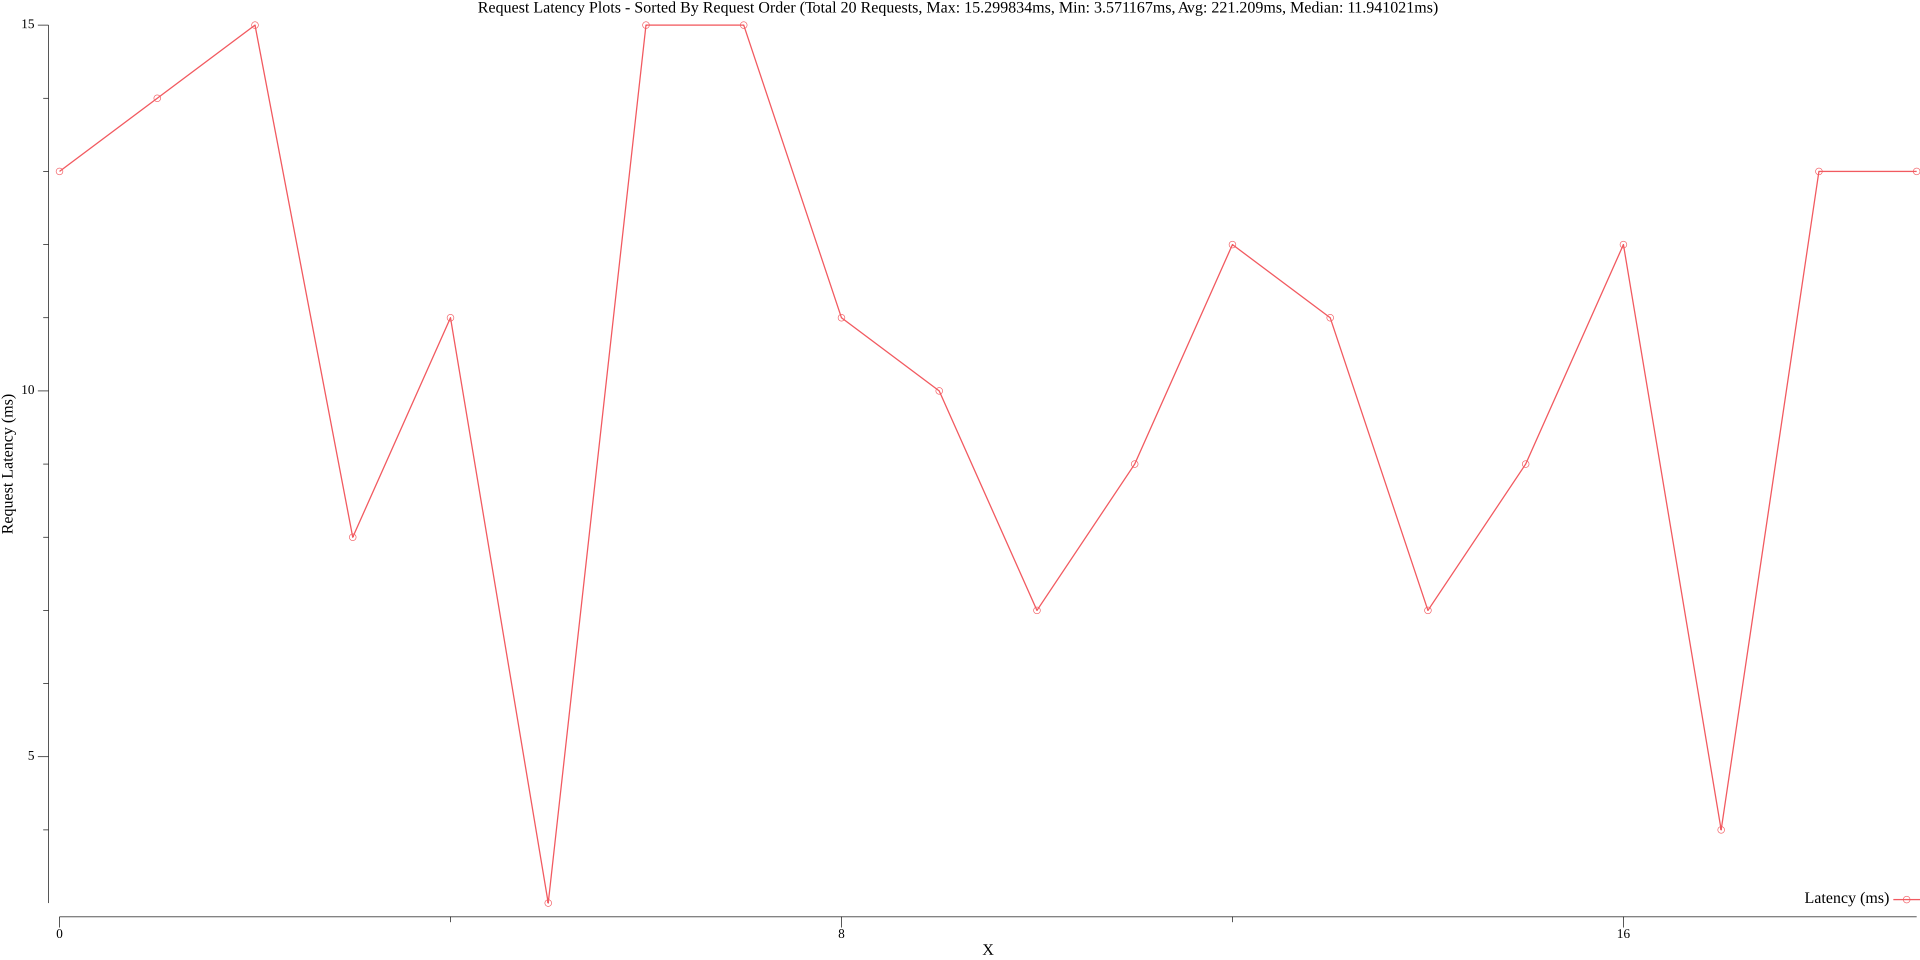
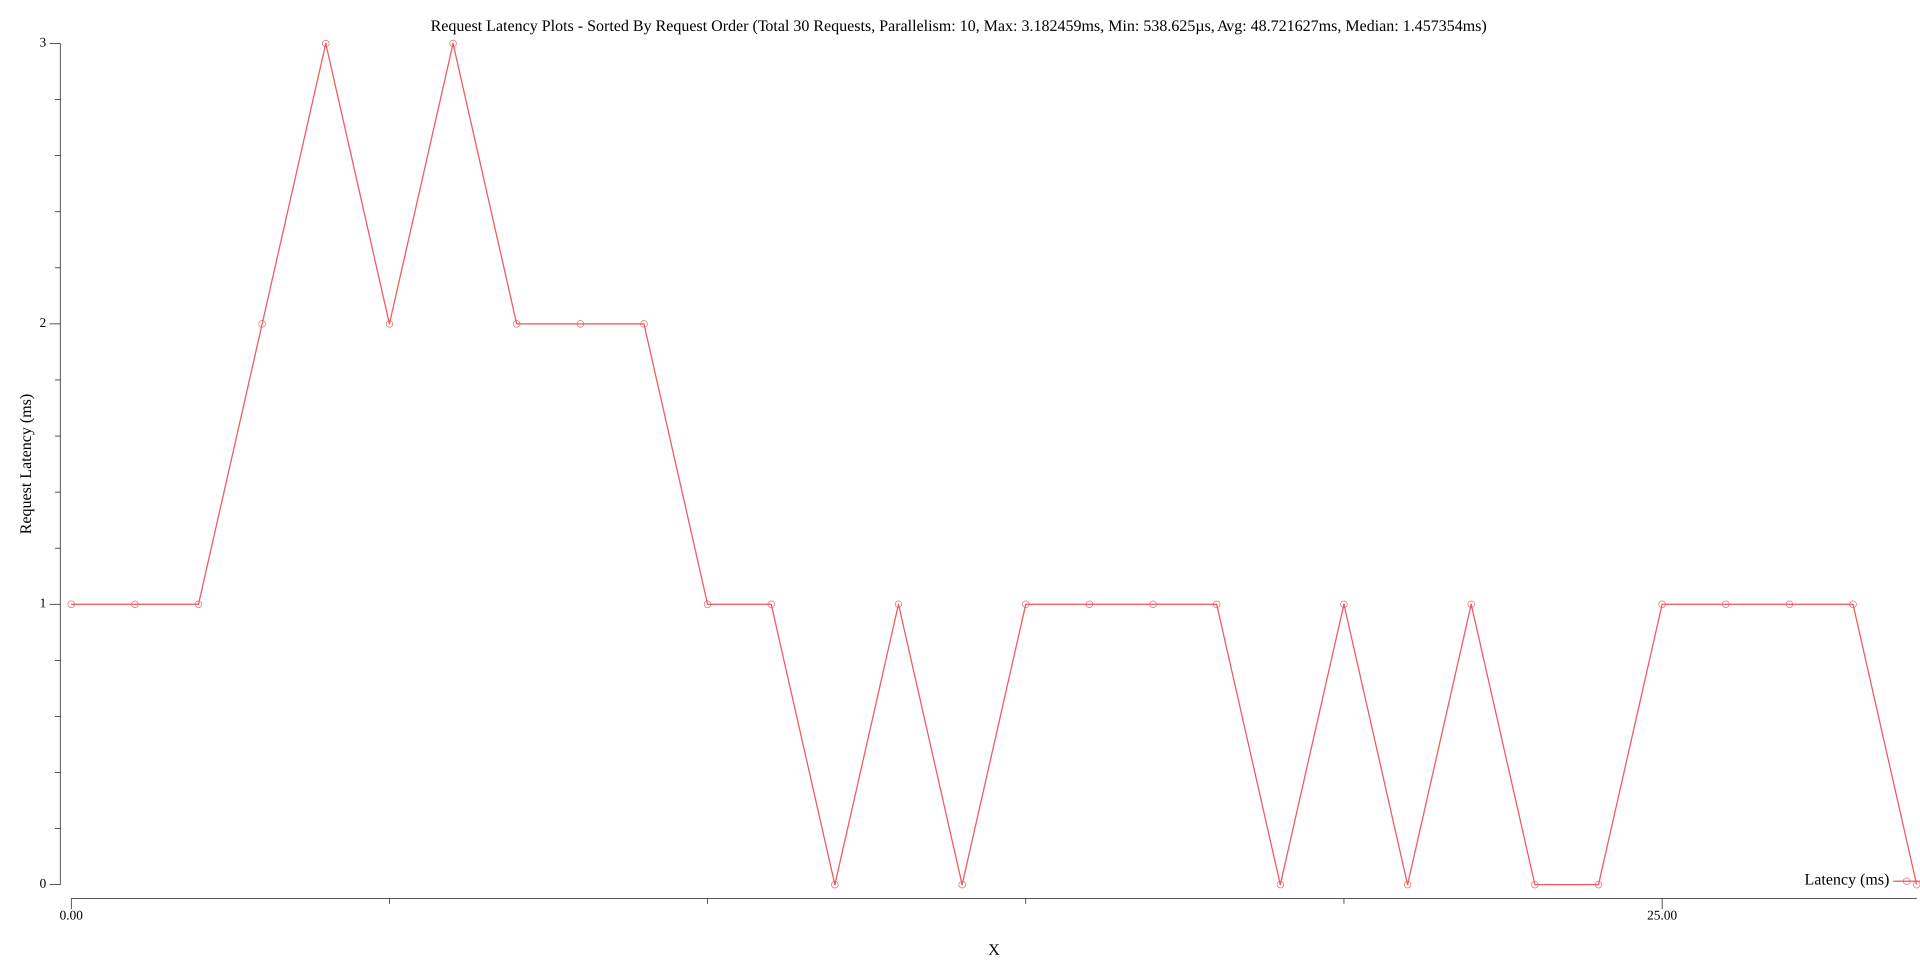
Update demo

diff --git a/README.md b/README.md
@@ -33,43 +33,53 @@ benchmarker.StartBenchmark(parallel, round, sendRequest)
 ## Output
 
 ```
-Order: 1, Took: 13.032791ms, Success: true, HttpStatus: 200, Extra: map[]
-Order: 2, Took: 14.089ms, Success: true, HttpStatus: 200, Extra: map[]
-Order: 3, Took: 15.168084ms, Success: true, HttpStatus: 200, Extra: map[]
-Order: 4, Took: 8.655709ms, Success: true, HttpStatus: 200, Extra: map[]
-Order: 5, Took: 11.956125ms, Success: true, HttpStatus: 200, Extra: map[]
-Order: 6, Took: 3.571167ms, Success: true, HttpStatus: 200, Extra: map[]
-Order: 7, Took: 15.091167ms, Success: true, HttpStatus: 200, Extra: map[]
-Order: 8, Took: 15.299834ms, Success: true, HttpStatus: 200, Extra: map[]
-Order: 9, Took: 11.925917ms, Success: true, HttpStatus: 200, Extra: map[]
-Order: 10, Took: 10.944333ms, Success: true, HttpStatus: 200, Extra: map[]
-Order: 11, Took: 7.628208ms, Success: true, HttpStatus: 200, Extra: map[]
-Order: 12, Took: 9.466166ms, Success: true, HttpStatus: 200, Extra: map[]
-Order: 13, Took: 12.553333ms, Success: true, HttpStatus: 200, Extra: map[]
-Order: 14, Took: 11.110625ms, Success: true, HttpStatus: 200, Extra: map[]
-Order: 15, Took: 7.528167ms, Success: true, HttpStatus: 200, Extra: map[]
-Order: 16, Took: 9.468917ms, Success: true, HttpStatus: 200, Extra: map[]
-Order: 17, Took: 12.566166ms, Success: true, HttpStatus: 200, Extra: map[]
-Order: 18, Took: 4.235625ms, Success: true, HttpStatus: 200, Extra: map[]
-Order: 19, Took: 13.418625ms, Success: true, HttpStatus: 200, Extra: map[]
-Order: 20, Took: 13.499041ms, Success: true, HttpStatus: 200, Extra: map[]
+Order: 1, Took: 1.159167ms, Success: true, HttpStatus: 200, Extra: map[]
+Order: 2, Took: 1.759167ms, Success: true, HttpStatus: 200, Extra: map[]
+Order: 3, Took: 1.787917ms, Success: true, HttpStatus: 200, Extra: map[]
+Order: 4, Took: 2.687959ms, Success: true, HttpStatus: 200, Extra: map[]
+Order: 5, Took: 3.182459ms, Success: true, HttpStatus: 200, Extra: map[]
+Order: 6, Took: 2.618958ms, Success: true, HttpStatus: 200, Extra: map[]
+Order: 7, Took: 3.118584ms, Success: true, HttpStatus: 200, Extra: map[]
+Order: 8, Took: 2.754875ms, Success: true, HttpStatus: 200, Extra: map[]
+Order: 9, Took: 2.756875ms, Success: true, HttpStatus: 200, Extra: map[]
+Order: 10, Took: 2.492708ms, Success: true, HttpStatus: 200, Extra: map[]
+Order: 11, Took: 1.154667ms, Success: true, HttpStatus: 200, Extra: map[]
+Order: 12, Took: 1.9035ms, Success: true, HttpStatus: 200, Extra: map[]
+Order: 13, Took: 867µs, Success: true, HttpStatus: 200, Extra: map[]
+Order: 14, Took: 1.8965ms, Success: true, HttpStatus: 200, Extra: map[]
+Order: 15, Took: 679.583µs, Success: true, HttpStatus: 200, Extra: map[]
+Order: 16, Took: 1.320791ms, Success: true, HttpStatus: 200, Extra: map[]
+Order: 17, Took: 1.445917ms, Success: true, HttpStatus: 200, Extra: map[]
+Order: 18, Took: 1.75275ms, Success: true, HttpStatus: 200, Extra: map[]
+Order: 19, Took: 1.003042ms, Success: true, HttpStatus: 200, Extra: map[]
+Order: 20, Took: 588.875µs, Success: true, HttpStatus: 200, Extra: map[]
+Order: 21, Took: 1.369375ms, Success: true, HttpStatus: 200, Extra: map[]
+Order: 22, Took: 810.708µs, Success: true, HttpStatus: 200, Extra: map[]
+Order: 23, Took: 1.468792ms, Success: true, HttpStatus: 200, Extra: map[]
+Order: 24, Took: 954.75µs, Success: true, HttpStatus: 200, Extra: map[]
+Order: 25, Took: 612.208µs, Success: true, HttpStatus: 200, Extra: map[]
+Order: 26, Took: 1.090875ms, Success: true, HttpStatus: 200, Extra: map[]
+Order: 27, Took: 1.958625ms, Success: true, HttpStatus: 200, Extra: map[]
+Order: 28, Took: 1.61025ms, Success: true, HttpStatus: 200, Extra: map[]
+Order: 29, Took: 1.376125ms, Success: true, HttpStatus: 200, Extra: map[]
+Order: 30, Took: 538.625µs, Success: true, HttpStatus: 200, Extra: map[]
 
 --------- Count ---------------
 
-total_count: 20
-status_count: map[200:20]
-success_count: map[true:20]
+total_count: 30
+status_count: map[200:30]
+success_count: map[true:30]
 
 --------- Latency -------------
 
-min: 3.571167ms
-max: 15.299834ms
-median: 11.941021ms
-avg: 11.06045ms
-p75: 13.418625ms
-p90: 15.091167ms
-p95: 15.168084ms
-p99: 15.299834ms
+min: 538.625µs
+max: 3.182459ms
+median: 1.457354ms
+avg: 1.624054ms
+p75: 1.958625ms
+p90: 2.754875ms
+p95: 3.118584ms
+p99: 3.182459ms
 
 --------- Plots ---------------
 
